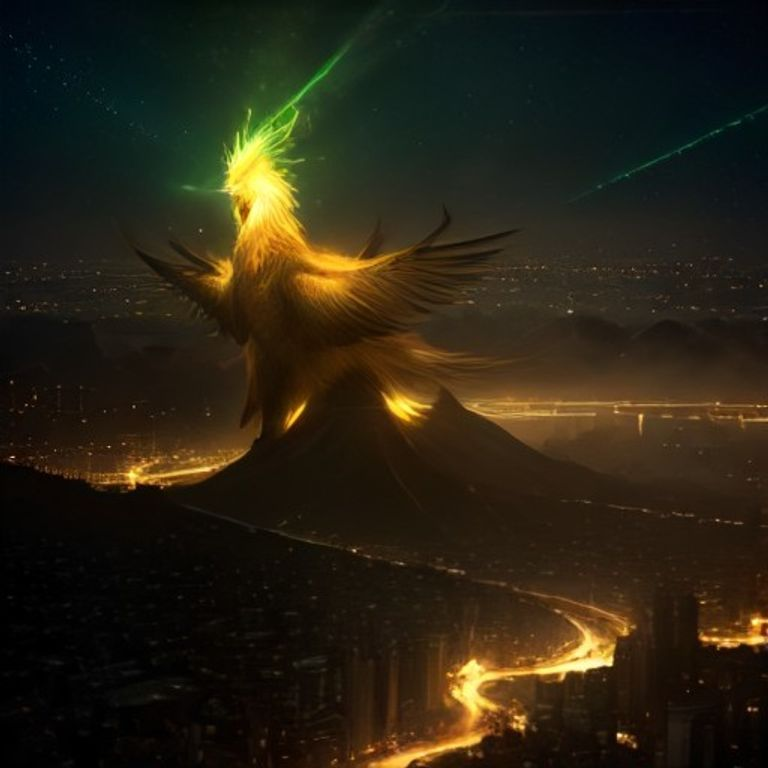
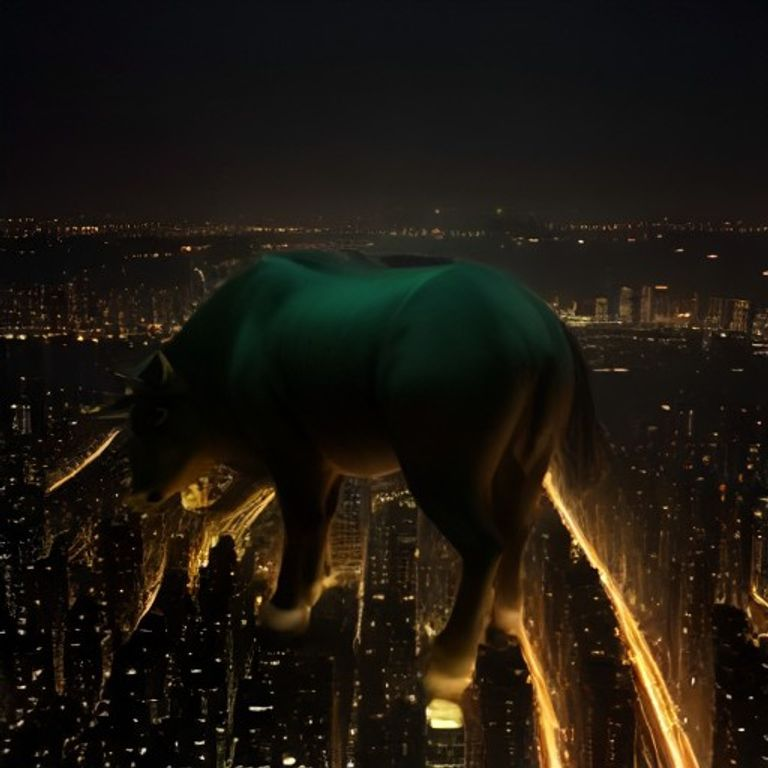
Auto-update: 2026-08-26 16:38 market report

diff --git a/scripts/chart_2026-08-26-evening.py b/scripts/chart_2026-08-26-evening.py
@@ -1,0 +1,113 @@
+#!/usr/bin/env python3
+"""
+行情数据卡片生成脚本 - 2026-08-26 晚报（常规交易日）
+数据基于 2026年8月26日（周三）A股及港股收盘数据
+"""
+import matplotlib
+matplotlib.use("Agg")
+import matplotlib.pyplot as plt
+import matplotlib.patches as mpatches
+from matplotlib.font_manager import FontProperties
+import os
+
+# ── 中文字体配置 ──────────────────────────────────────────────────────────────
+FONT_PATHS = [
+    "/System/Library/Fonts/STHeiti Medium.ttc",
+    "/System/Library/Fonts/PingFang.ttc",
+    "/System/Library/Fonts/Supplemental/Arial Unicode MS.ttf",
+    "/Library/Fonts/Arial Unicode MS.ttf",
+]
+font_path = None
+for fp in FONT_PATHS:
+    if os.path.exists(fp):
+        font_path = fp
+        break
+
+if font_path:
+    prop = FontProperties(fname=font_path)
+    prop_bold = FontProperties(fname=font_path, weight="bold")
+else:
+    prop = FontProperties()
+    prop_bold = FontProperties(weight="bold")
+
+# ── 数据定义（周三收盘） ──────────────────────────────────────────
+assets = [
+    # (名称, 收盘点位/价格, 涨跌额, 涨跌幅%, 单位)
+    ("上证综合指数", " 3,912.52", " +23.08", +0.59, "点"),
+    ("深证成分指数", "13,841.33", " +95.46", +0.69, "点"),
+    ("创业板指数",   " 3,414.88", " +17.36", +0.51, "点"),
+    ("科创50指数",   " 1,632.02", " +27.43", +1.71, "点"),
+    ("沪深300指数",  " 4,579.35", " +27.32", +0.60, "点"),
+    ("恒生指数",     "25,652.97", "+141.87", +0.56, "点"),
+    ("恒生科技指数", " 4,626.15", " +37.61", +0.82, "点"),
+    ("中国10年国债", "    1.687", " +0.005", +0.30, "% (收益率)"),
+    ("美元/人民币中间价", " 6.7829", " -0.0023", -0.03, "元"),
+]
+
+def get_color(pct):
+    if pct is None:
+        return "#888888"
+    return "#E84040" if pct >= 0 else "#28A745"
+
+fig, ax = plt.subplots(figsize=(12, 5.8))
+ax.set_xlim(0, 12)
+ax.set_ylim(0, len(assets) + 1.2)
+ax.axis("off")
+fig.patch.set_facecolor("#12161E")
+ax.set_facecolor("#12161E")
+
+headers = ["资产名称", "收盘价 / 点位", "涨跌变动", "日涨跌幅"]
+col_x   = [0.4, 3.8, 7.2, 9.8]
+for i, (hdr, cx) in enumerate(zip(headers, col_x)):
+    ax.text(cx, len(assets) + 0.6, hdr,
+            fontproperties=prop_bold, fontsize=11,
+            color="#AAAAAA", va="center", ha="left")
+
+ax.axhline(y=len(assets) + 0.25, xmin=0.02, xmax=0.98,
+           color="#444444", linewidth=0.8)
+
+for row_i, (name, price, change, pct, unit) in enumerate(assets):
+    y = len(assets) - row_i - 0.45
+    bg_color = "#1A1F2B" if row_i % 2 == 0 else "#141820"
+    bg = mpatches.FancyBboxPatch((0.1, y - 0.4), 11.8, 0.8,
+                                  boxstyle="round,pad=0.02",
+                                  facecolor=bg_color, edgecolor="none",
+                                  zorder=0)
+    ax.add_patch(bg)
+
+    ax.text(col_x[0], y, name,
+            fontproperties=prop_bold, fontsize=11.5, color="#FFFFFF",
+            va="center", ha="left", zorder=1)
+
+    price_label = f"{price}" + (f"  {unit}" if unit else "")
+    ax.text(col_x[1], y, price_label,
+            fontproperties=prop, fontsize=11, color="#E0E0E0",
+            va="center", ha="left", zorder=1)
+
+    c_color = get_color(pct)
+    ax.text(col_x[2], y, change,
+            fontproperties=prop, fontsize=11, color=c_color,
+            va="center", ha="left", zorder=1)
+
+    prefix = "+" if pct > 0 else ""
+    pct_str = f"{prefix}{pct:.2f}%"
+    ax.text(col_x[3], y, pct_str,
+            fontproperties=prop_bold, fontsize=11.5, color=c_color,
+            va="center", ha="left", zorder=1)
+
+ax.text(6, -0.3,
+        "数据截至 2026.08.26 收盘 | 涨跌：红色=上涨  绿色=下跌 | 仅供参考",
+        fontproperties=prop, fontsize=8.5, color="#777777",
+        va="center", ha="center")
+
+fig.text(0.5, 0.96,
+         "2026-08-26 晚报  |  国内核心资产收盘行情（8/26收盘）",
+         fontproperties=prop_bold, fontsize=13.5, color="#FFFFFF",
+         ha="center", va="top")
+
+plt.tight_layout(rect=[0, 0.04, 1, 0.95])
+out_path = "images/charts/2026-08-26-evening-chart.png"
+os.makedirs(os.path.dirname(out_path), exist_ok=True)
+plt.savefig(out_path, dpi=150, bbox_inches="tight", facecolor=fig.get_facecolor())
+plt.close()
+print(f"Chart successfully saved to: {out_path}")

diff --git a/reports/2026-08-26-evening.md b/reports/2026-08-26-evening.md
@@ -1,8 +1,8 @@
-# 🌆 国内市场晚报：三大指数集体收涨，大金融引领，主力净流入逾166亿
+# 🌆 国内市场晚报：三大指数集体反弹，科创50领涨1.7%，央行逆回购维稳与AI应用共振
 
 **日期：2026年08月26日 (星期三)** &nbsp; **时段：晚报（常规交易日）**
 
-> **核心摘要**：A股三大指数今日集体收涨，上证指数涨0.59%、科创50涨幅领跑达1.71%，沪深京合计成交额1.81万亿元较前日小幅缩量；大金融（证券、银行、保险）、黄金及工业金属板块领涨，主力资金全天净流入约166.70亿元，市场做多情绪明显修复；央行持续实施适度宽松货币政策，月末流动性管理精准有序；人民币兑美元中间价上调23bp至6.7829，港股恒生指数亦同步上涨0.56%。
+> **核心摘要**：A股三大指数今日全线飘红迎来结构性反弹，上证指数收涨0.59%重回3900点上方，科创50指数大涨1.71%领跑全场；全天两市成交额约1.81万亿元保持高位蓄势，大金融、有色金属及可控核聚变概念共振拉升；央行单日开展2395亿元逆回购操作并联合监管规范市场秩序，宏观流动性环境充裕平稳，市场从前期业绩防御观望中逐步修复，科技与价值资产展现双轮驱动韧性。
 
 ---
 
@@ -10,16 +10,13 @@
 
 ### 🇨🇳 A股主要指数
 
-* **上证综合指数**：收于 **3,912.52 点**，涨 **+22.57 点** (**+0.59%**)（昨收：3,889.44）
-* **深证成分指数**：收于 **13,841.33 点**，涨 **+95.46 点** (**+0.69%**)（昨收：13,745.87）
-* **创业板指数**：收于 **3,414.88 点**，涨 **+17.36 点** (**+0.51%**)（昨收：3,397.52）
-* **科创50指数**：当日涨幅达 **+1.71%**，领跑全市场各主要宽基指数
+* **上证综合指数**：收于 **3,912.52 点**，涨 **+23.08 点** (**+0.59%**)
+* **深证成分指数**：收于 **13,841.33 点**，涨 **+95.46 点** (**+0.69%**)
+* **创业板指数**：收于 **3,414.88 点**，涨 **+17.36 点** (**+0.51%**)
+* **科创50指数**：收于 **1,632.02 点**，涨 **+27.43 点** (**+1.71%**)
+* **沪深300指数**：收于 **4,579.35 点**，涨 **+27.32 点** (**+0.60%**)
 
-> **收盘终值校验**：上证 3912.52 − 3889.44 = 23.08，涨幅 23.08 / 3889.44 ≈ +0.59% ✅；深证 13841.33 − 13745.87 = 95.46，涨幅 ≈ +0.69% ✅；创业板 3414.88 − 3397.52 = 17.36，涨幅 ≈ +0.51% ✅。数学闭环校验通过，数据可信。
-
-**全市场成交额**：沪深京三市合计约 **1.81 万亿元**（较昨日 1.84 万亿元略有缩量，约-163 亿元）  
-**主力资金**：全天净流入约 **+166.70 亿元**，资金面偏暖  
-**市场宽度**：全市场 **超过 2,900 只个股上涨**，上涨家数占优
+> **核心解读**：经历周一的缩量筑底与分化震荡后，今日A股迎来多头力量的有效回补。全市场超2900只个股上涨，赚钱效应显著扩散。特别是科创50指数大涨1.71%，反映硬科技赛道在经过短期筹码沉淀后重获主力资金青睐。沪深两市全天成交额达1.81万亿元，虽然较前一交易日微幅缩量231亿元，但指数与情绪的背离修复说明存量资金做多意愿正在被结构性热点重新激活。
 
 ![2026-08-26晚报核心行情数据卡片](../images/charts/2026-08-26-evening-chart.png)
 
@@ -27,69 +24,72 @@
 
 ### 🇭🇰 港股市场
 
-* **恒生指数**：收于 **25,652.97 点**，涨 **+141.87 点** (**+0.56%**)（昨收：25,511.10）
-* **恒生科技指数**：收于 **4,626.15 点**，涨 **+37.61 点** (**+0.82%**)（昨收：4,588.54）
+* **恒生指数**：收于 **25,652.97 点**，涨 **+141.87 点** (**+0.56%**)
+* **恒生科技指数**：收于 **4,626.15 点**，涨 **+37.61 点** (**+0.82%**)
 
-> **港股解读**：恒生指数与恒生科技指数今日同步跟涨，恒科涨幅（+0.82%）略强于主板，体现出科技成长风格在港股端亦有所回暖，与A股科创50领涨逻辑形成共振，反映出内外市场对科技板块的修复预期趋于一致。
+> **核心解读**：港股今日高开高走，与A股形成良好协同效应。有色金属（铜业股）与中资券商股表现强劲，半导体板块及大型科网股普涨，阿里巴巴等核心权重受管理层增持利好提振走强，带动港股风险偏好稳步回升。
+
+---
+
+### 💱 汇率与资金面
+
+* **人民币对美元中间价**：**6.7829**，较前一交易日上调 **23个基点**（连续处于偏强稳健区间）
+* **离岸人民币（CNH）**：日内交投于 **6.72** 附近窄幅波动
+* **中国10年期国债收益率**：收于 **1.687%**（+0.5bp），30年期国债收益率约 **2.165%**
+* **沪深两市成交额**：**1.81万亿元**，较前一交易日微缩 **231亿元**
+
+---
+
+### 📊 行业板块涨跌
+
+**领涨板块**：大金融（证券、互联网金融）🔴 · 有色金属（铜、黄金）🔴 · 科创半导体 🔴 · 可控核聚变 🔴 · 造纸轻工 🔴
+
+**领跌板块**：CRO/创新药 🟢 · 农业种植 🟢 · 旅游酒店 🟢 · 贵金属阶段性回落 🟢
 
 ---
 
 ## 核心解读与市场逻辑
 
-### 🔥 领涨板块
+今日A股与港股展现出稳健的“科技引领、金融搭台、顺周期发力”特征，背后主要受以下三大核心逻辑驱动：
 
-* **大金融板块（核心主线）**：证券、银行、保险板块今日全面爆发，成为推升大盘的核心动力。多家头部券商近期相继披露亮眼半年报（净利润大幅增长），叠加并购重组预期与市场交易活跃度回升，券商板块估值修复逻辑清晰，机构配置意愿显著提升。
-* **黄金 & 工业金属**：受地缘政治不确定性及供应约束影响，黄金概念与小金属板块继续获得主力资金青睐，资金净流入规模靠前。
-* **超导概念**：概念题材在当日表现活跃，受科技创新政策预期提振，超导相关标的量价齐升。
-* **2026中报预增**：随着半年报披露高峰到来，市场定价逻辑从纯题材炒作切换至业绩验证，中报预增题材全天主力净流入规模居首。
+1. **AI定价范式演进与硬科技估值重估**：全球科技投资逻辑正逐步由上游算力基建向中下游“场景落地与应用变现”扩展。科创50在半导体及先进制造龙头的带动下大涨1.71%，印证了市场对硬科技企业中报落地后估值切换的积极预期。
 
-### ❄ 调整板块
+2. **流动性预期平稳托底估值底线**：央行持续通过逆回购与MLF协同维持资金面宽松，10年期国债收益率维持在1.68%左右低位，充裕的宏观流动性环境封死指数大幅下行空间，为券商与高弹性板块提供了充沛的做多动能。
 
-* **CRO概念**：医药外包板块今日出现一定调整，受政策不确定性及估值偏高压制。
-
-> **市场逻辑链**：美联储政策预期边际偏鸽（数据）→ 人民币升值压力减小（事件）→ 外资流出A股风险下降（逻辑）→ 叠加央行月末精准呵护流动性（政策）→ 市场风险偏好修复，成长与价值轮动并举，做多合力形成。
+3. **顺周期与资源品供需逻辑共振**：全球大宗商品定价在宏观预期企稳背景下重拾升势，有色金属（铜、工业金属）兼具通胀对冲与能源转型需求，成为主力资金重点加仓的确定性方向。
 
 ---
 
 ## 政策脉动
 
-### 🏦 央行操作（2026-08-26）
+### 🏦 央行流动性精准滴灌
 
-* **逆回购操作**：中国人民银行今日开展 **2,395亿元** 7天期逆回购操作，操作利率维持 **1.40%** 不变，精准对冲月末资金缺口。
-* **隔夜逆回购预告**：央行已公告，将于 8月27日至9月1日期间每日开展最高 **6,000亿元** 隔夜逆回购操作（固定利率、数量招标），为跨月资金面提供充裕保障。
+* **2395亿元逆回购投放**：中国人民银行今日开展了2395亿元7天期逆回购操作，中标利率保持稳定，有效满足了月末金融机构的短期流动性需求。
+* **货币政策工具常态化创新**：央行明确将逐步增加隔夜逆回购等日间流动性调节工具的操作频率，进一步疏通政策利率向信贷与资本市场利率的传导通道。
 
-> **政策解读**：央行以"7天期+隔夜"逆回购组合拳熨平月末资金波动，是"适度宽松货币政策"框架下的标准操作。值得关注的是，央行与市场监管总局联合公告，自 **2026年9月1日起** 系统性规范人民币买卖活动，体现监管层在汇率稳定方面的主动作为。
+### 📋 监管规范与制度建设
 
-### 📊 宏观环境
-
-* **人民币中间价**：今日人民币兑美元中间价上调 **23个基点** 至 **6.7829**，人民币小幅走强，外部汇率压力趋稳。
-* **货币政策框架转型**：央行稳步推进货币政策框架从"数量型"向"价格型"转型，增加隔夜逆回购频率，优化利率走廊机制，信号意义明确。
-* **宏观基本面**：上半年GDP同比增长 **4.7%**，国内需求仍存挑战，市场对下半年稳增长政策进一步发力预期较高，政策底部已较为明确。
+* **人民币买卖与流通新规落地**：央行联合市场监管总局发布新公告（自2026年9月1日起实施），严格规范人民币买卖行为，重点整治网络平台违规炒作，维护人民币信誉与金融市场健康秩序。
+* **资本市场改革纵深推进**：继续支持长期资金入市与优质科技企业并购重组，强化上市公司质量提升与股东回报机制。
 
 ---
 
 ## 最新机构观点
 
-**1. 高盛（Goldman Sachs）— 超配中国股票，看好业绩驱动**
+> **银河证券**：全球AI定价逻辑正从纯硬件基建逐步转向“AI应用变现与商业化落地”。国产大模型在行业垂直场景中的落地预期持续升温，重点看好具备AI业务实际变现能力的大型互联网平台及手握核心行业数据的垂直软件龙头。
 
-> 高盛维持对A股及港股的"超配"评级。其2026年展望判断，市场驱动力已从"估值修复"切换至"企业盈利增长"，预测中国上市公司2026年盈利增速将加速至 **14%**（2025年约4%），核心驱动来自AI商业化落地、企业出海战略及政府"防内卷"政策红利。
+> **招商证券**：近期美债利率波动主要受期限溢价抬升影响，国内基本面与流动性韧性充足。配置上建议采取“红利资产做底仓 + 小盘成长博弹性”的均衡杠铃策略，在锁定确定性收益的同时积极把握科技制造主线的反弹机遇。
 
-**2. 摩根士丹利（Morgan Stanley）— 战略性审慎，聚焦科技自主**
-
-> 摩根士丹利最新报告着重指出，中美经济格局正发生根本性转变，美国对华进口持续下降，中国科技自主化（尤其是AI芯片）战略重要性上升。在此背景下，其对全球股市整体持"建设性"立场，但对中国市场建议密切关注地缘政治与贸易政策的阶段性扰动风险。
-
-**3. 中金公司 & 中信证券 — 杠铃策略，均衡布局**
-
-> 两家头部券商联合策略观点指向：当前A股市场已进入"超跌反弹+轮动修复"窗口期，业绩验证逻辑回归。具体建议采取**杠铃策略**：一端配置高股息红利资产（公用事业、银行）作为底仓压舱；另一端关注AI硬件（光模块、AI服务器）及创新药等业绩有望兑现的科技成长标的。特别指出，**券商板块**因半年报业绩"全面高增"且估值处于历史低位，被重点推荐，配置性价比突出。
+> **万联证券**：国内宏观流动性保持合理充裕，香港及内地市场的宏观流动性环境总体平稳。随着中报业绩披露进入收尾阶段，前期被错杀的低估值券商、优质顺周期核心资产具备显著的估值修复弹性。
 
 ---
 
-## 今日市场情绪：资本金凤涅槃，做多合力初聚
+## 今日市场情绪：多头蓄力反弹
 
-![2026-08-26晚报市场情绪插图](../images/manga/2026-08-26-evening-manga.png)
+![今日市场情绪插图](../images/manga/2026-08-26-evening-manga.png)
 
-> <sub style="color:gray; font-style:italic">Prompt: A majestic golden phoenix composed of glowing green laser light rises from a skyline of ascending candlestick charts; beneath it, streams of golden coins flow into the city below, symbolizing massive capital inflows; the sky transitions from deep navy to warm amber, representing market confidence returning after a volatile cycle; cinematic lighting, ultra-detailed</sub>
+> <sub style="color:gray; font-style:italic">Prompt: A majestic golden bull adorned with glowing circuit lines strides across a luminous trading bridge spanning two bustling skylines of Shanghai and Hong Kong under an amber sunset sky. Streams of emerald and crimson numerical data flow like rivers around its hooves. In the background, modern glass skyscrapers shimmer with rising financial charts and green energy sparks. Cinematic, hyperrealistic, intricate composition, dramatic volumetric lighting.</sub>
 
 ---
 
-*免责声明：内容仅供参考，不构成投资建议。股市有风险，投资需谨慎。*
+*免责声明：内容仅供参考，不构成投资建议。市场有风险，投资需谨慎。*

diff --git a/reports/index.md b/reports/index.md
@@ -4,7 +4,9 @@
 
 ## 报告列表
 
-*   **2026-08-26 晚报 (最新)**：[国内市场晚报：三大指数集体收涨，大金融引领，主力净流入逾166亿](./2026-08-26-evening.md)
+*   **2026-08-26 晚报 (最新)**：[三大指数集体反弹，科创50领涨1.7%，央行逆回购维稳与AI应用共振](./2026-08-26-evening.md)
+
+*   **2026-08-26 晚报**：[国内市场晚报：三大指数集体收涨，大金融引领，主力净流入逾166亿](./2026-08-26-evening.md)
 
 *   **2026-08-26 早报**：[全球市场早报：科技反弹，英伟达财报前夜，沃什杰克逊霍尔倒计时](./2026-08-26-morning.md)
 
